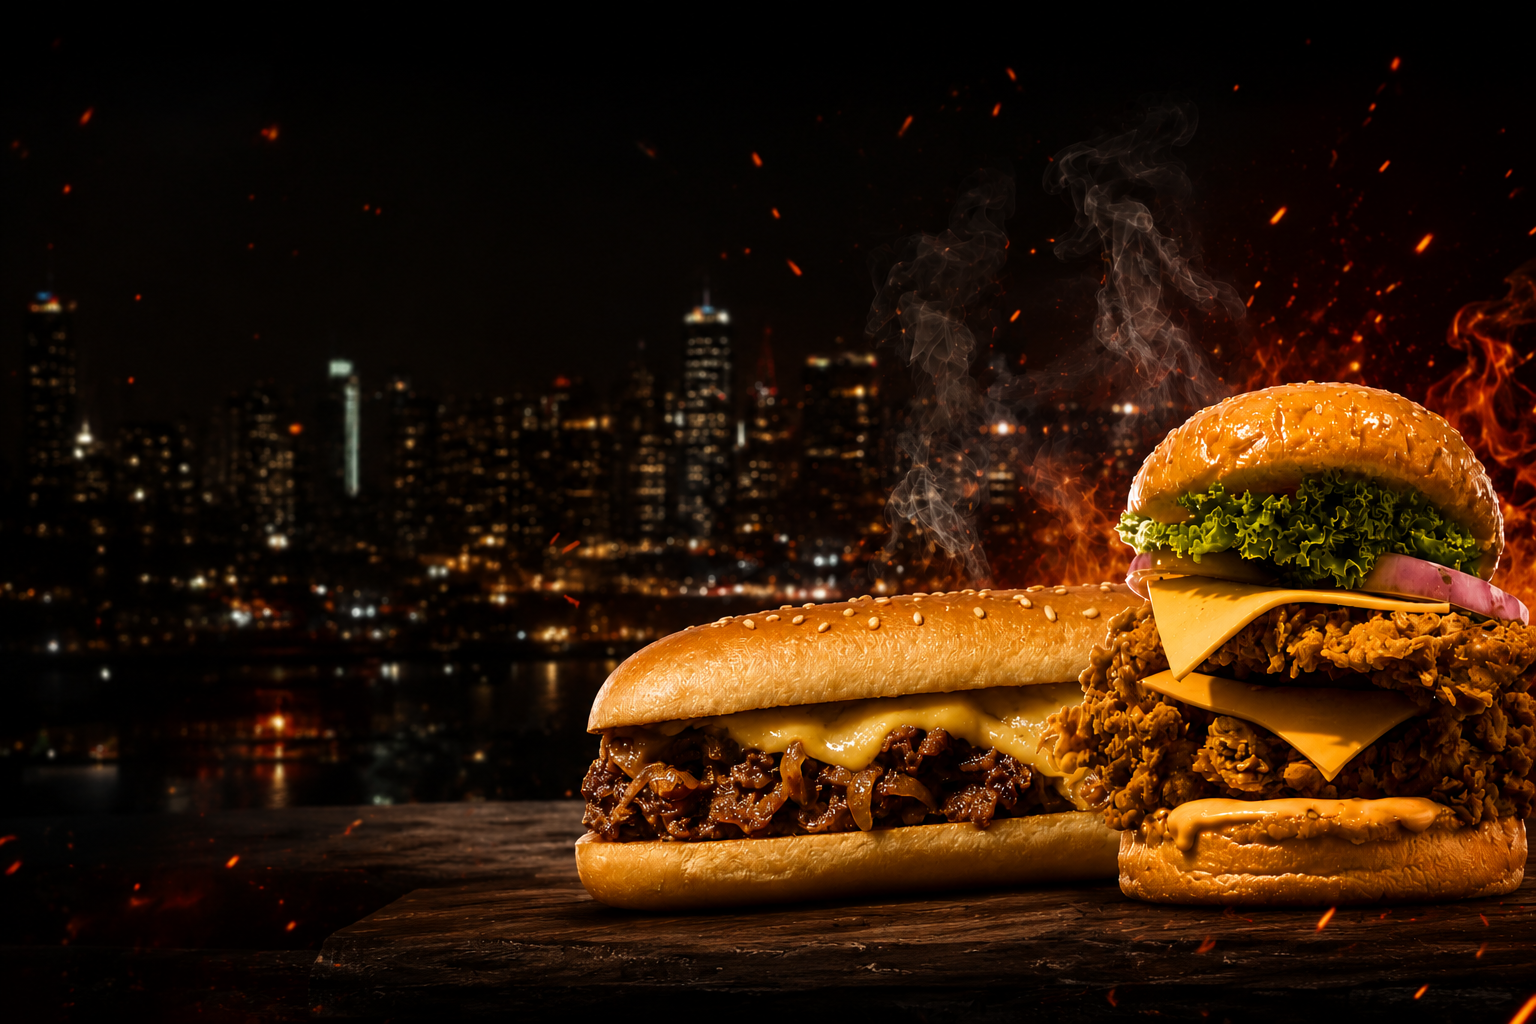
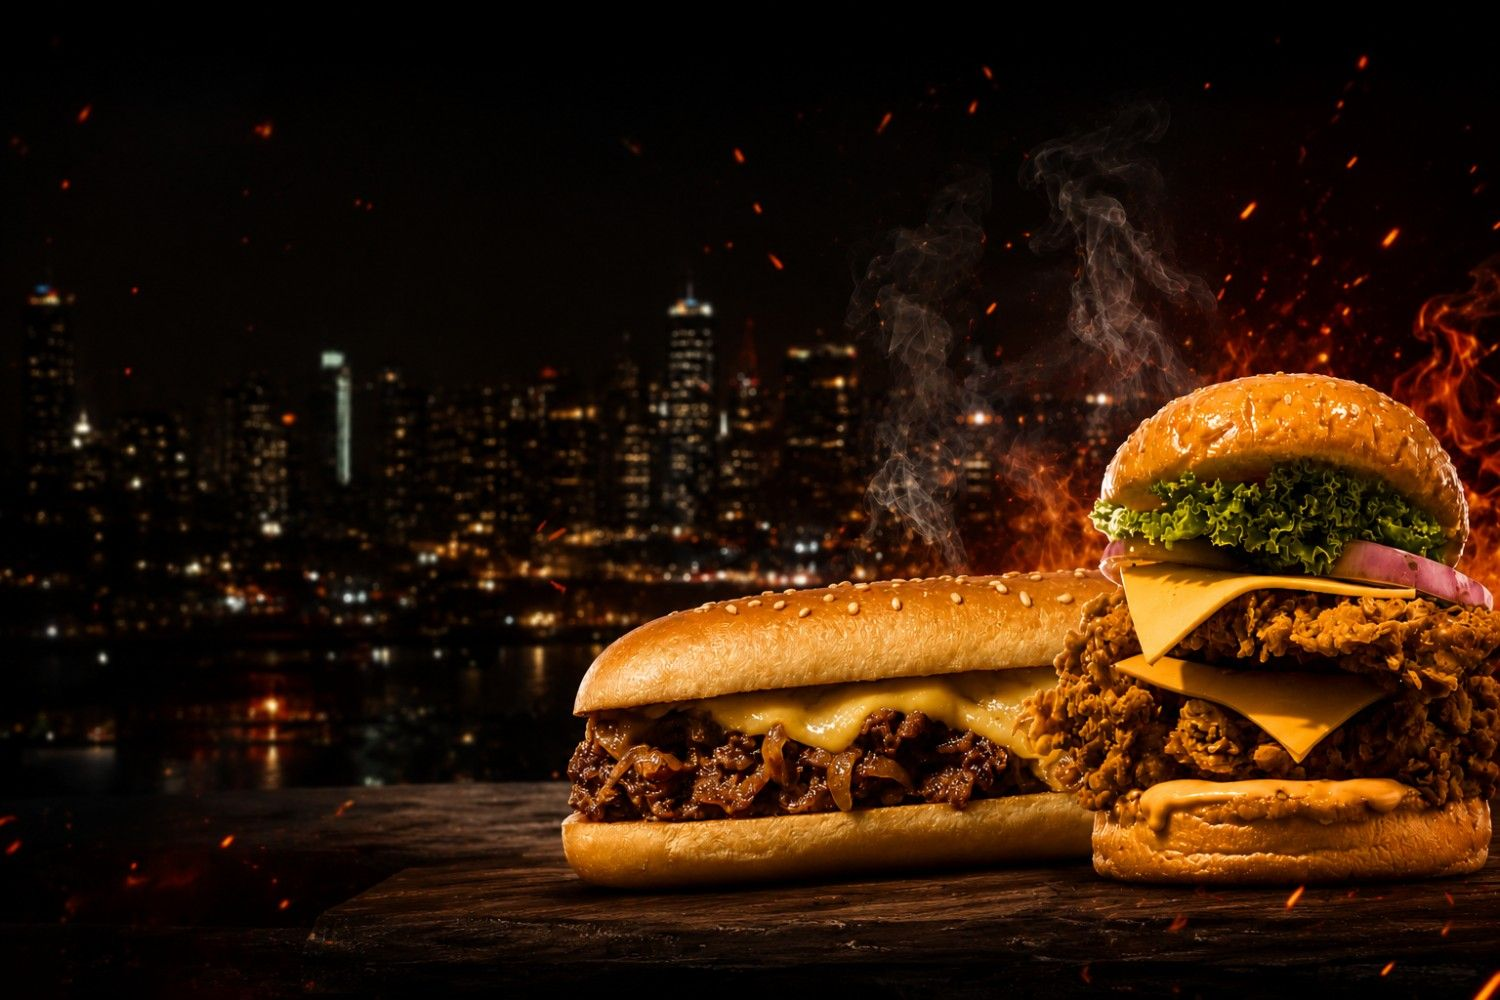
Update hero section to use Link component for menu navigation

diff --git a/src/routes/index.tsx b/src/routes/index.tsx
@@ -242,12 +242,12 @@ function Hero() {
             </div>
 
             <div className="mt-8 sm:mt-10 flex flex-wrap gap-3 sm:gap-4">
-              <a
-                href="#menu"
+              <Link
+                to="/menu"
                 className="inline-flex items-center gap-2 sm:gap-2.5 bg-[#ff3b14] hover:bg-[#ff5a2a] text-white px-5 py-2 sm:px-8 sm:py-3.5 rounded-md font-semibold tracking-wider text-xs sm:text-sm uppercase transition-all shadow-[0_0_20px_rgba(255,59,20,0.3)]"
               >
                 <Flame className="w-3 h-3 sm:w-4 sm:h-4 fill-current" /> VIEW MENU
-              </a>
+              </Link>
               <a
                 href="#contact"
                 className="inline-flex items-center gap-2 sm:gap-2.5 bg-black border border-white/30 hover:border-white text-white px-5 py-2 sm:px-8 sm:py-3.5 rounded-md font-semibold tracking-widest text-xs sm:text-sm uppercase transition-all"
